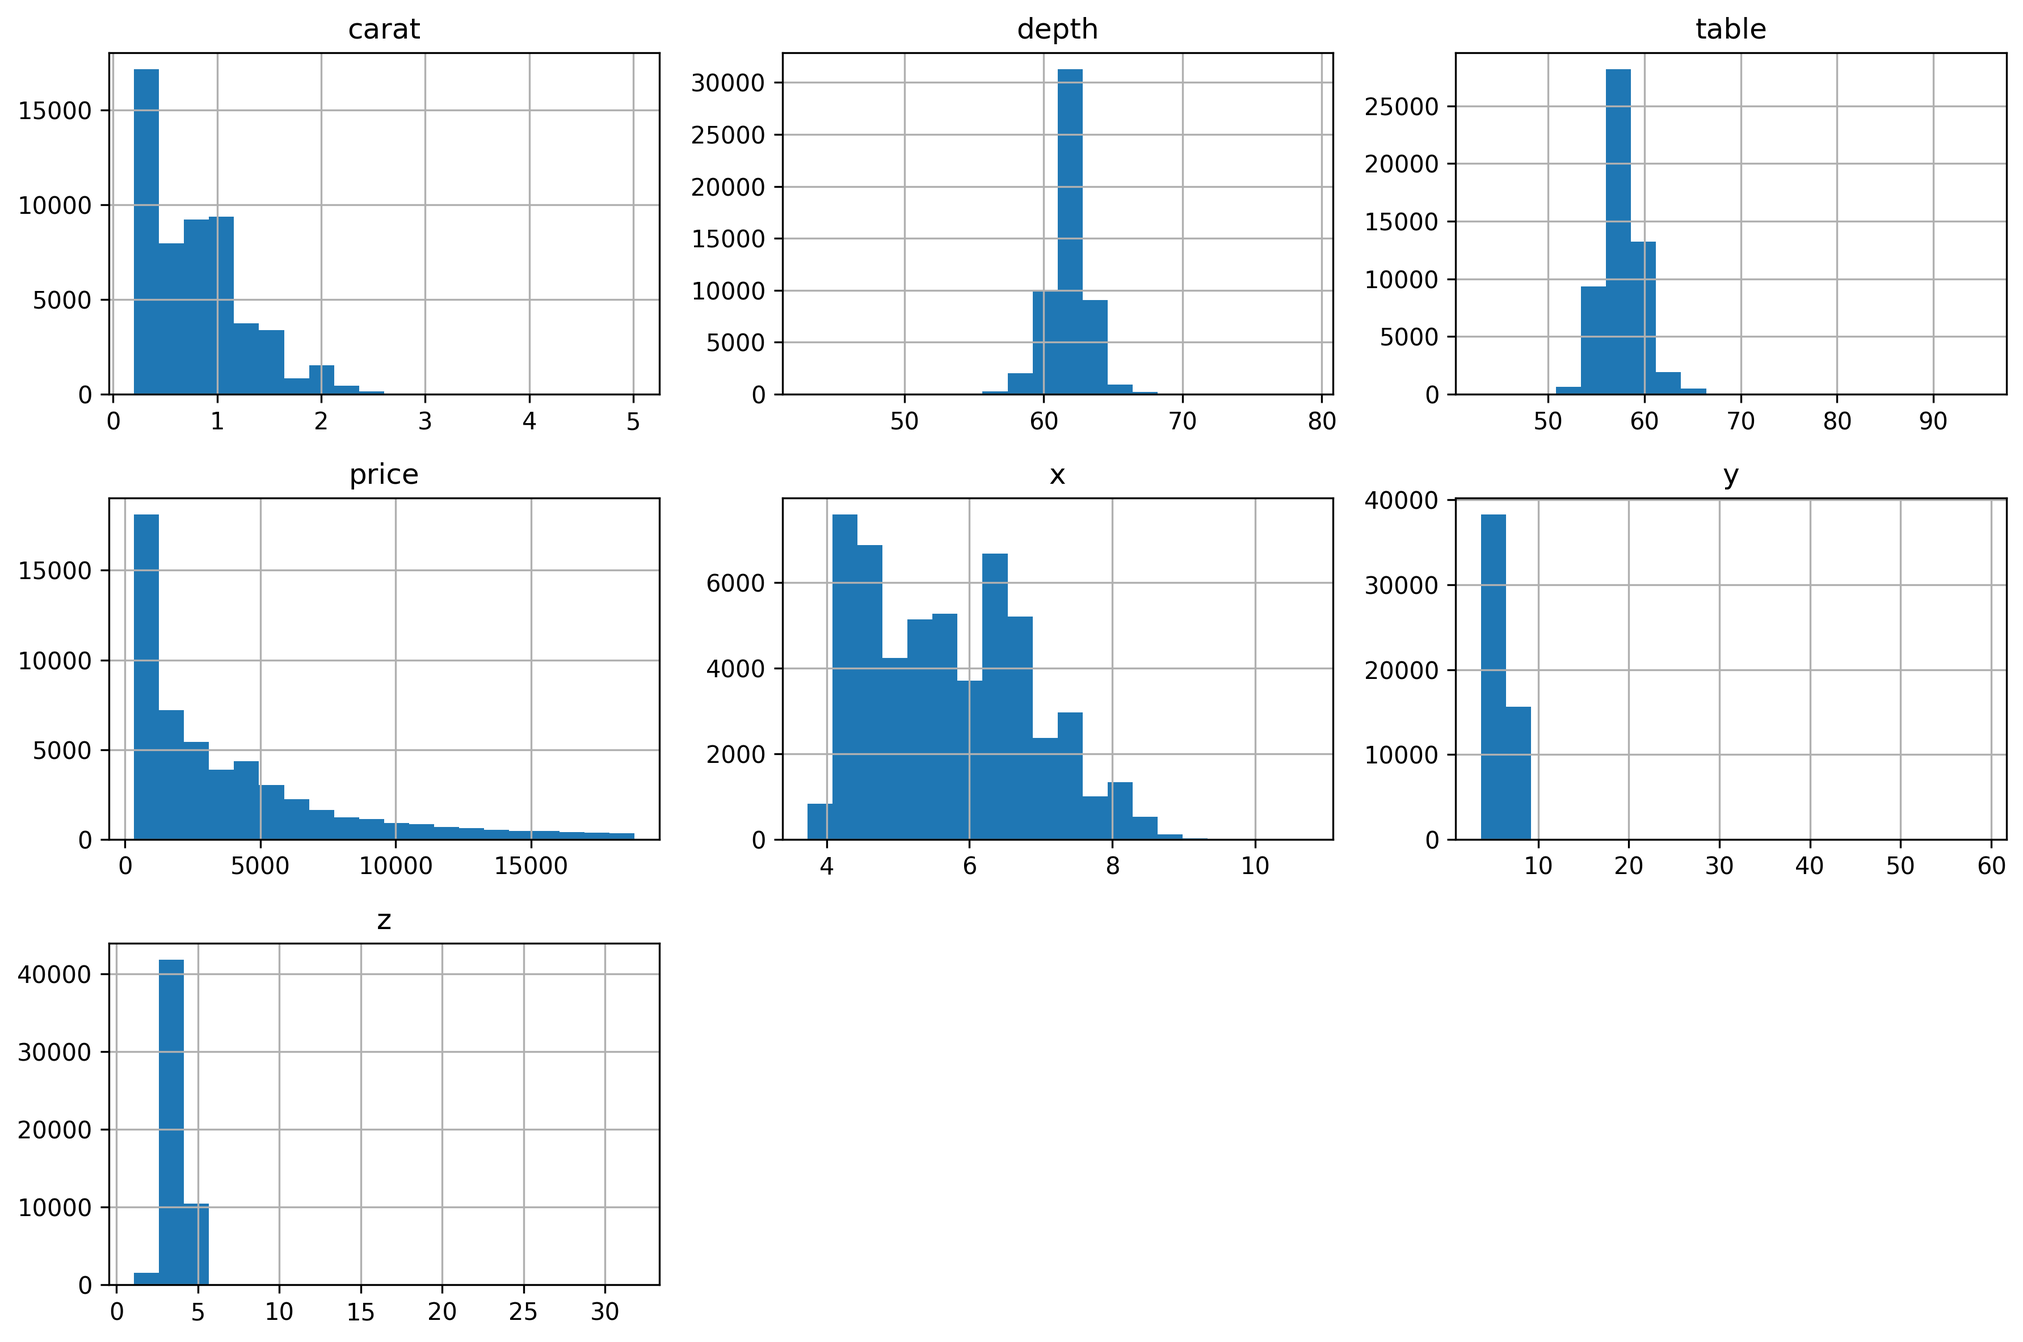
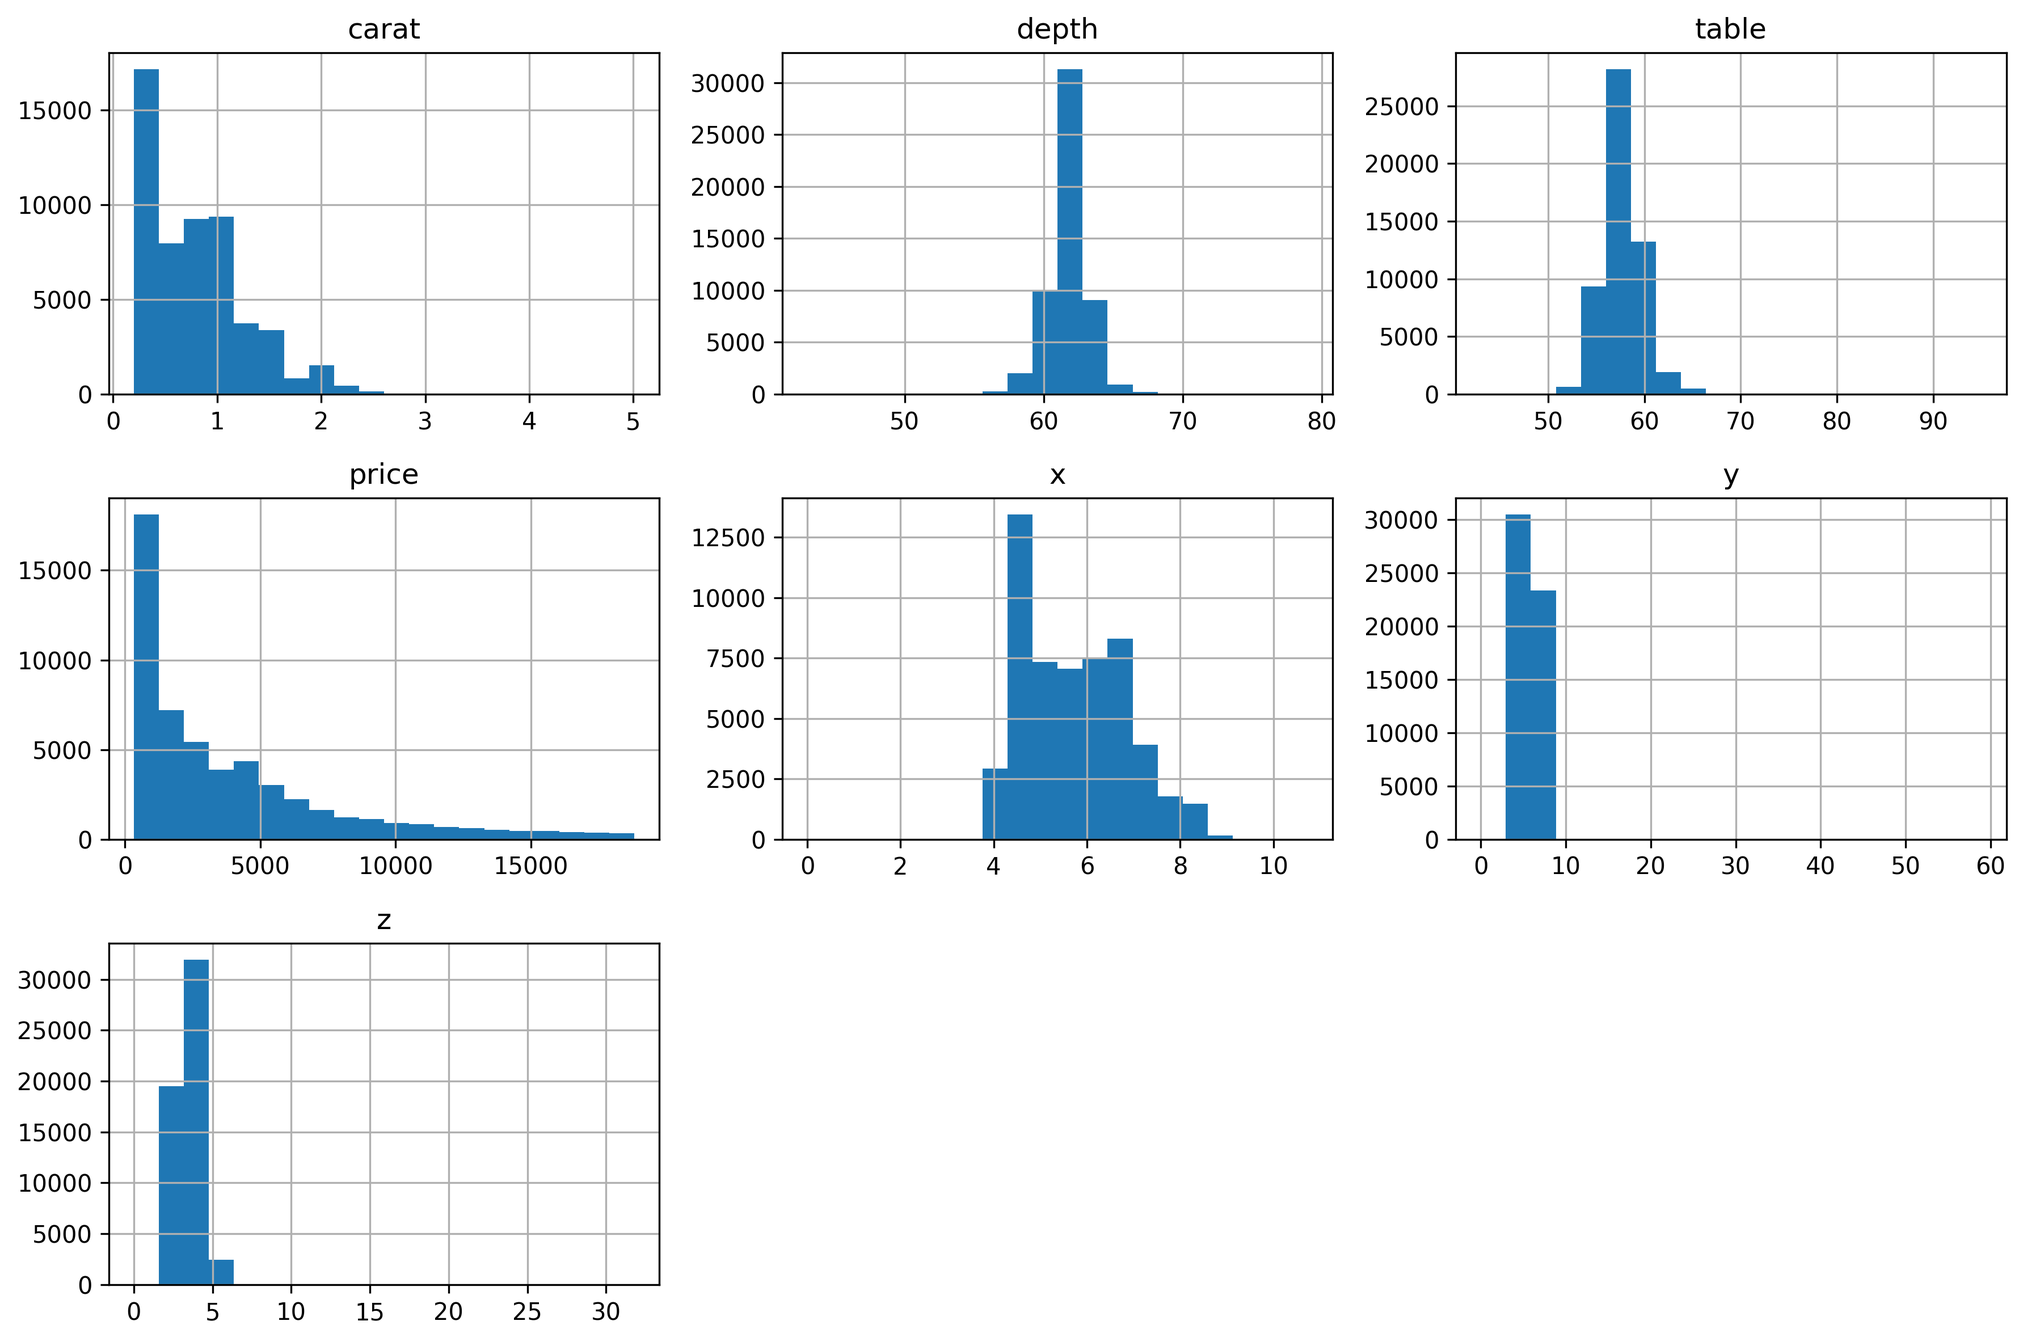
He modularizado el ejercicio 1

diff --git a/practica_final_cotillas_villa_mikel/ejercicio1_descriptivo.py b/practica_final_cotillas_villa_mikel/ejercicio1_descriptivo.py
@@ -3,81 +3,89 @@ import matplotlib.pyplot as plt
 import seaborn as sns
 import numpy as np
 
+def data_read():
+    df = pd.read_csv("data/diamonds.csv")   ## Aquí simplemente cargamos los datos
+    return df
 
-df = pd.read_csv("data/diamonds.csv")   ## Aquí simplemente cargamos los datos
-resumen = df.describe(include=[np.number]).T    ## Hacemos la traspuesta para que la tabla sea más legible
-resumen.to_csv("output/ej1_descriptivo.csv", index=True)    ## Lo pasamos a .csv con los nombres de las filas
+def data_resumen(df):
+    resumen = df.describe(include=[np.number]).T    ## Hacemos la traspuesta para que la tabla sea más legible
+    resumen.to_csv("output/ej1_descriptivo.csv", index=True)    ## Lo pasamos a .csv con los nombres de las filas
+    print("Output the df.info(): \n")
+    df.info() ## Este comando nos da el número de NaNs, los dtypes, y el uso en memoria
 
-print("Output the df.info(): \n")
-df.info() ## Este comando nos da el número de NaNs, los dtypes, y el uso en memoria
+def data_info(df):
+    ## Con este dataframe podemos guardar casi toda la información de df.info() en el .csv
+    info_df = pd.DataFrame({
+        "column": df.columns,
+        "non_null_count": df.notna().sum().values,
+        "n_nulls": df.isna().sum().values,
+        "dtype": df.dtypes.astype(str).values
+    })
+    info_df.to_csv("output/ej1_descriptivo.csv", mode="a", header=False, index=False)
 
-## Con este dataframe podemos guardar casi toda la información de df.info() en el .csv
-info_df = pd.DataFrame({
-    "column": df.columns,
-    "non_null_count": df.notna().sum().values,
-    "n_nulls": df.isna().sum().values,
-    "dtype": df.dtypes.astype(str).values
-})
+def valores_nulos(df):
+    ## Esto nos dice si hay valores nulos en las dimensiones
+    print("\nOutput de print((df[['x', 'y', 'z', 'price', 'carat', 'table']] == 0).sum()) \n")
+    print((df[["x", "y", "z", "price", "carat", "table"]] == 0).sum()) 
+    ## Como tenemos varias filas con dimensiones nulas, las eliminamos.
+    df = df[(df[["x", "y", "z"]] != 0).all(axis=1)]
 
-info_df.to_csv("output/ej1_descriptivo.csv", mode="a", header=False, index=False)
+def valores_categoricas(df):
+    ## Ahora vamos a ver si todos los datos categóricos son correctos.
+    print("\n Comprobación de las variables categóricas:\n")
+    print(df["cut"].unique())
+    print(df["clarity"].unique())
+    print(df["color"].unique())
+    ## Hemos comprobado que las variables categóricas no tienen problemas
 
-## Esto nos dice si hay valores nulos en las dimensiones
-print("\nOutput de print((df[['x', 'y', 'z', 'price', 'carat', 'table']] == 0).sum()) \n")
-print((df[["x", "y", "z", "price", "carat", "table"]] == 0).sum()) 
+def metricas_numericas(df):
+    numeric_df = df.select_dtypes(include = "number")   ## Hacemos un dataframe solo con los valores
+                                                        ## numéricos del dataframe original
 
-## Como tenemos varias filas con dimensiones nulas, las eliminamos.
-df = df[(df[["x", "y", "z"]] != 0).all(axis=1)]
+    medias = numeric_df.mean()
+    medianas = numeric_df.median()
+    modas = numeric_df.mode()
+    desviacion_tipica = numeric_df.std()
+    varianza = numeric_df.var()
+    minimo = numeric_df.min()
+    maximo = numeric_df.max()
+    cuartiles = numeric_df.quantile([0.25, 0.5, 0.75]).T
+    iqr_objetivo = numeric_df["price"].quantile([0.25,0.75]).T  ## Rango intercuartílico
+    skewness = numeric_df.skew()
+    kurtosis = numeric_df.kurtosis()
 
-## Ahora vamos a ver si todos los datos categóricos son correctos.
-print("\n Comprobación de las variables categóricas:\n")
-print(df["cut"].unique())
-print(df["clarity"].unique())
-print(df["color"].unique())
-## Hemos comprobado que las variables categóricas no tienen problemas
+    with open("output/ej1_metricas", "w") as f:
+        f.write(f"Medias:\n {medias}\n")
+        f.write(f"Medianas:\n {medianas}\n")
+        f.write(f"Modas:\n {modas}\n")
+        f.write(f"Desviacion tipica:\n {desviacion_tipica}\n")
+        f.write(f"Minimo:\n {minimo}\n")
+        f.write(f"Maximo:\n {maximo}\n")
+        f.write(f"Cuartiles:\n {cuartiles}\n")
+        f.write(f"Rango intercuartilico de la variable objetivo:\n {iqr_objetivo}\n")
+        f.write(f"Skewness:\n {skewness}\n")
+        f.write(f"Kurtosis:\n {kurtosis}\n")
+    return numeric_df
 
-numeric_df = df.select_dtypes(include = "number")   ## Hacemos un dataframe solo con los valores
-                                                    ## numéricos del dataframe original
+def numeric_histogramas(numeric_df):
+    numeric_df.hist(figsize = (12,8), bins = 20)    ## Escogemos bins = 20 porque parece interpretable
+    plt.tight_layout()                              ## para todas las variables
+    plt.savefig("output/ej1_histogramas.png", dpi=300, bbox_inches="tight")
+    plt.close()     ## Para que no aparezcan en pantalla los histogramas
 
-medias = numeric_df.mean()
-medianas = numeric_df.median()
-modas = numeric_df.mode()
-desviacion_tipica = numeric_df.std()
-varianza = numeric_df.var()
-minimo = numeric_df.min()
-maximo = numeric_df.max()
-cuartiles = numeric_df.quantile([0.25, 0.5, 0.75]).T
-iqr_objetivo = numeric_df["price"].quantile([0.25,0.75]).T  ## Rango intercuartílico
-skewness = numeric_df.skew()
-kurtosis = numeric_df.kurtosis()
-
-with open("output/ej1_metricas", "w") as f:
-    f.write(f"Medias:\n {medias}\n")
-    f.write(f"Medianas:\n {medianas}\n")
-    f.write(f"Modas:\n {modas}\n")
-    f.write(f"Desviacion tipica:\n {desviacion_tipica}\n")
-    f.write(f"Minimo:\n {minimo}\n")
-    f.write(f"Maximo:\n {maximo}\n")
-    f.write(f"Cuartiles:\n {cuartiles}\n")
-    f.write(f"Rango intercuartilico de la variable objetivo:\n {iqr_objetivo}\n")
-    f.write(f"Skewness:\n {skewness}\n")
-    f.write(f"Kurtosis:\n {kurtosis}\n")
-
-numeric_df.hist(figsize = (12,8), bins = 20)    ## Escogemos bins = 20 porque parece interpretable
-plt.tight_layout()                              ## para todas las variables
-plt.savefig("output/ej1_histogramas.png", dpi=300, bbox_inches="tight")
-plt.close()     ## Para que no aparezcan en pantalla los histogramas
-
-columnas_categoricas = df.select_dtypes(include = ["str", "object", "category"]).columns   ## .columns devuelve
-                                                                                    ## devuelve el nombre
-                                                                                    ## de las columnas
-                                                                                    ## para hacer el loop
-for columna in columnas_categoricas:
-    plt.figure(figsize = (8, 5))
-    sns.boxplot(data = df, x = columna, y = "price")
-    plt.title(f"Price by {columna}")
-    plt.tight_layout()
-    plt.savefig(f"output/ej1_boxplot_{columna}")
-    plt.close()
+def boxplots_categoricas(df):
+    columnas_categoricas = df.select_dtypes(include = ["str", "object", "category"]).columns   ## .columns devuelve
+                                                                                        ## devuelve el nombre
+                                                                                        ## de las columnas
+                                                                                        ## para hacer el loop
+    for columna in columnas_categoricas:
+        plt.figure(figsize = (8, 5))
+        sns.boxplot(data = df, x = columna, y = "price")
+        plt.title(f"Price by {columna}")
+        plt.tight_layout()
+        plt.savefig(f"output/ej1_boxplot_{columna}")
+        plt.close()
+    return columnas_categoricas
 
 ## Como podemos ver en los boxplots estamos trabajando con un dataset con muchos outliers, 
 ## así que es mejor no usar el z-score. Además los datos no están normalmente distribuidos.
@@ -89,20 +97,34 @@ for columna in columnas_categoricas:
 
 
 ## Ahora trabajaremos con las frecuencias de las variables categóricas.
-for columna in columnas_categoricas:
-    counts = df[columna].value_counts()
-    plt.figure(figsize = (6,6))
-    plt.pie(counts, labels = counts.index, autopct="%1.1f%%", startangle=90)
-    plt.title(f"Pie chart of {columna}")
+def piechart_categoricas(df, columnas_categoricas):
+    for columna in columnas_categoricas:
+        counts = df[columna].value_counts()
+        plt.figure(figsize = (6,6))
+        plt.pie(counts, labels = counts.index, autopct="%1.1f%%", startangle=90)
+        plt.title(f"Pie chart of {columna}")
+        plt.tight_layout()
+        plt.savefig(f"output/ej1_categoricas_{columna}.png", dpi=300, bbox_inches="tight")
+        plt.close()
+
+def matriz_correlacion(numeric_df):
+    corr_matrix = numeric_df.corr(method="pearson")
+
+    plt.figure(figsize=(10, 8))
+    sns.heatmap(corr_matrix, annot=True, cmap="coolwarm", fmt=".2f")
+    plt.title("Heatmap de las correlaciones de Pearson")
     plt.tight_layout()
-    plt.savefig(f"output/ej1_categoricas_{columna}.png", dpi=300, bbox_inches="tight")
+    plt.savefig("output/ej1_heatmap_correlacion.png", dpi=300, bbox_inches="tight")
     plt.close()
 
-corr_matrix = numeric_df.corr(method="pearson")
-
-plt.figure(figsize=(10, 8))
-sns.heatmap(corr_matrix, annot=True, cmap="coolwarm", fmt=".2f")
-plt.title("Heatmap de las correlaciones de Pearson")
-plt.tight_layout()
-plt.savefig("output/ej1_heatmap_correlacion.png", dpi=300, bbox_inches="tight")
-plt.close()
+if __name__ == "__main__":
+    df = data_read()
+    data_resumen(df)
+    data_info(df)
+    valores_nulos(df)
+    valores_categoricas(df)
+    numeric_df = metricas_numericas(df)
+    numeric_histogramas(numeric_df)
+    columnas_categoricas = boxplots_categoricas(df)
+    piechart_categoricas(df, columnas_categoricas)
+    matriz_correlacion(numeric_df)

diff --git a/practica_final_cotillas_villa_mikel/ejercicio2_inferencia.py b/practica_final_cotillas_villa_mikel/ejercicio2_inferencia.py
@@ -12,67 +12,75 @@ from sklearn.metrics import mean_absolute_error, root_mean_squared_error, r2_sco
 import scipy.stats as stats
 
 ## Leemos los datos y quitamos los 0s sin significado.
-df = pd.read_csv("data/diamonds.csv")
-df = df[(df[["x", "y", "z"]] != 0).all(axis=1)]
+def data_read():
+    df = pd.read_csv("data/diamonds.csv")
+    df = df[(df[["x", "y", "z"]] != 0).all(axis=1)]
 
 ## Como estamos trabajando con variables ordinales tenemos que hacer un mapeo de estas a una
 ## escala numérica. La limitación que tiene esto es que estamos asumiendo que cada mejora en 
 ## escala es de la misma "cantidad", es decir, que las escalas son lineales.
-mapa_calidad = {"Fair" : 1, "Good" : 2, "Very Good" : 3, "Premium" : 4, "Ideal" : 5}
-mapa_claridad = {"I1" : 1, "SI2" : 2, "SI1" : 3, "VS2" : 4, "VS1" : 5, "VVS2" : 6, "VVS1" : 7, "IF" : 8}
-mapa_color = {"J" : 1, "I" : 2, "H" : 3, "G" : 4, "F" : 5, "E" : 6, "D" : 7}
+def codificar_df(df):
+    mapa_calidad = {"Fair" : 1, "Good" : 2, "Very Good" : 3, "Premium" : 4, "Ideal" : 5}
+    mapa_claridad = {"I1" : 1, "SI2" : 2, "SI1" : 3, "VS2" : 4, "VS1" : 5, "VVS2" : 6, "VVS1" : 7, "IF" : 8}
+    mapa_color = {"J" : 1, "I" : 2, "H" : 3, "G" : 4, "F" : 5, "E" : 6, "D" : 7}
 
-## Aquí estamos creando nuevas columnas.
-df["calidad_encoded"] = df["cut"].map(mapa_calidad)
-df["color_encoded"] = df["color"].map(mapa_color)
-df["claridad_encoded"] = df["clarity"].map(mapa_claridad)
+    ## Aquí estamos creando nuevas columnas.
+    df["calidad_encoded"] = df["cut"].map(mapa_calidad)
+    df["color_encoded"] = df["color"].map(mapa_color)
+    df["claridad_encoded"] = df["clarity"].map(mapa_claridad)
 
-## Aquí estamos deshaciéndonos de las viejas columnas para que no corrompan nuestro proceso
-## de regresión lineal
-df_encoded = df.drop(columns = ["cut", "color", "clarity"])
+    ## Aquí estamos deshaciéndonos de las viejas columnas para que no corrompan nuestro proceso
+    ## de regresión lineal
+    df_encoded = df.drop(columns = ["cut", "color", "clarity"])
 
-## Aquí vamos a deshacernos de las variables muy correlacionadas entre sí para evitar la multicolinearidad.
-df_encoded_dropped = df_encoded.drop(columns = ["y", "z", "carat"])
+    ## Aquí vamos a deshacernos de las variables muy correlacionadas entre sí para evitar la multicolinearidad.
+    df_encoded_dropped = df_encoded.drop(columns = ["y", "z", "carat"])
+    return df_encoded_dropped
 
-corr_matrix = df_encoded_dropped.select_dtypes(include = "number").corr(method="pearson")
 
-plt.figure(figsize=(10, 8))
-sns.heatmap(corr_matrix, annot=True, cmap="coolwarm", fmt=".2f")
-plt.title("Heatmap de las correlaciones de Pearson")
-plt.tight_layout()
-plt.savefig("output/ej2_matriz_correlaciones")  ## Hemos hecho otra vez el heatmap para asegurarnos de que no hay más colinearidad
-plt.close()
+def matriz_correlacion(df_encoded_dropped):
+    corr_matrix = df_encoded_dropped.select_dtypes(include = "number").corr(method="pearson")
+
+    plt.figure(figsize=(10, 8))
+    sns.heatmap(corr_matrix, annot=True, cmap="coolwarm", fmt=".2f")
+    plt.title("Heatmap de las correlaciones de Pearson")
+    plt.tight_layout()
+    plt.savefig("output/ej2_matriz_correlaciones")  ## Hemos hecho otra vez el heatmap para asegurarnos de que no hay más colinearidad
+    plt.close()
 
 ## Como los precios tienen escalas muy distintas a las demás variables vamos a 
 ## coger el logaritmo de los precios para mayor estabilidad numérica.
 
-df_encoded_dropped["price"] = np.log(df_encoded_dropped["price"])
+def transform_price(df_encoded_dropped):
+    df_encoded_dropped["price"] = np.log(df_encoded_dropped["price"])
+    return df_encoded_dropped
 
-predictors = df_encoded_dropped.drop(columns = "price")
-target = df_encoded_dropped["price"]
+def regresion_lineal(df_encoded_dropped):
+    predictors = df_encoded_dropped.drop(columns = "price")
+    target = df_encoded_dropped["price"]
 
-predictors_train, predictors_test, target_train, target_test = train_test_split(predictors, target, test_size = 0.2, random_state = 42)
+    predictors_train, predictors_test, target_train, target_test = train_test_split(predictors, target, test_size = 0.2, random_state = 42)
 
-modelo = LinearRegression()
-modelo.fit(predictors_train, target_train)
+    modelo = LinearRegression()
+    modelo.fit(predictors_train, target_train)
 
-target_predicted = modelo.predict(predictors_test)
+    target_predicted = modelo.predict(predictors_test)  ## EXPONENCIAR
 
-mae = mean_absolute_error(target_test, target_predicted)
-rmse = root_mean_squared_error(target_test, target_predicted)
-r2 = r2_score(target_test, target_predicted)
+    mae = mean_absolute_error(target_test, target_predicted)
+    rmse = root_mean_squared_error(target_test, target_predicted)
+    r2 = r2_score(target_test, target_predicted)
 
-with open("output/ej2_metricas_regresion.txt", "w", encoding="utf-8") as f:
-    f.write(f"MAE: {mae}\n")
-    f.write(f"RMSE: {rmse}\n")
-    f.write(f"R^2: {r2}\n")
+    with open("output/ej2_metricas_regresion.txt", "w", encoding="utf-8") as f:
+        f.write(f"MAE: {mae}\n")
+        f.write(f"RMSE: {rmse}\n")
+        f.write(f"R^2: {r2}\n")
 
 ## Como podemos ver hay una no linearidad sospechosa a medida que los valores predichos aumentan.
 ## Digo que es sospechosa porque parece un fenómeno introducido por nosotros, quizás al 
 ## usar el logaritmo para escalar los datos. También es posible que nuestro modelo lineal
 ## no sea lo suficientemente efectivo cuando los precios de los diamantes son muy grandes
 ## y se requira de algún término polinomial.
-residuos = target_test - target_predicted
+residuos = target_test - target_predicted  ## EXPONENCIAR
 plt.figure(figsize=(8, 5))
 plt.scatter(target_predicted, residuos, alpha = 0.5)
 plt.axhline(0, linestyle="--")
@@ -133,8 +141,8 @@ jb_stat, jb_pvalue = jarque_bera(residuos)
 print("Jarque-Bera statistic:", jb_stat)
 print("p-value:", jb_pvalue)
 
-## Ahora dibujamos el histograma de los residuos. Visualmente podemos confirmar que efectivamente
-## los residuos siguen una distribución normal.
+## Ahora dibujamos el histograma de los residuos. Visualmente podemos confirmar que
+## los residuos parecen seguir una distribución normal.
 from scipy.stats import norm
 
 mu = residuos.mean()

diff --git a/practica_final_cotillas_villa_mikel/Respuestas.md b/practica_final_cotillas_villa_mikel/Respuestas.md
@@ -6,7 +6,13 @@
 
 ## Ejercicio 1 — Análisis Estadístico Descriptivo
 ---
-Añade aqui tu descripción y analisis:
+Lo primero de todo ha sido simplemente leer el .csv en el que se encontraba el dataset, lo que es muy conveniente porque no hemos tenido que hacer ningún tipo de malabares para cargar los datos, y luego hemos hecho un simple describe de las variables numéricas y las hemos guardado en su propio .csv. También hemos hecho un df.info() para conseguir aún más información no presente en el describe, y luego hemos añadido parte de ella a un dataframe para poder ponerlo en el mismo .csv en el que se encontraba el describe.
+
+Después hemos visto si alguna de las variables dimensionales tenían algún valor nulo, ya que ya hemos visto que no hay ningún NaN, y efectivamente había algunos diamantes con dimensiones nulas. Como eran muy poco diamantes simplemente los hemos quitado. Luego hemos hecho el mismo anñalisis con las variables categóricas para ver si había alguna categoría de más, pero no fue el caso.
+
+Luego hemos calculado distintos estadísticos numéricos (media, mediana, etc...) de las variables numéricas y hemos hecho boxplots de las variables categóricas con respecto al precio, la variable objetivo. También hemos hecho piecharts de las variables categóricas, para ver si había algún desbalanceo, que lo había, pero hemos decidido no tratarlos. 
+
+Por último hemos hecho una matriz de correlación.
 
 ---
 
